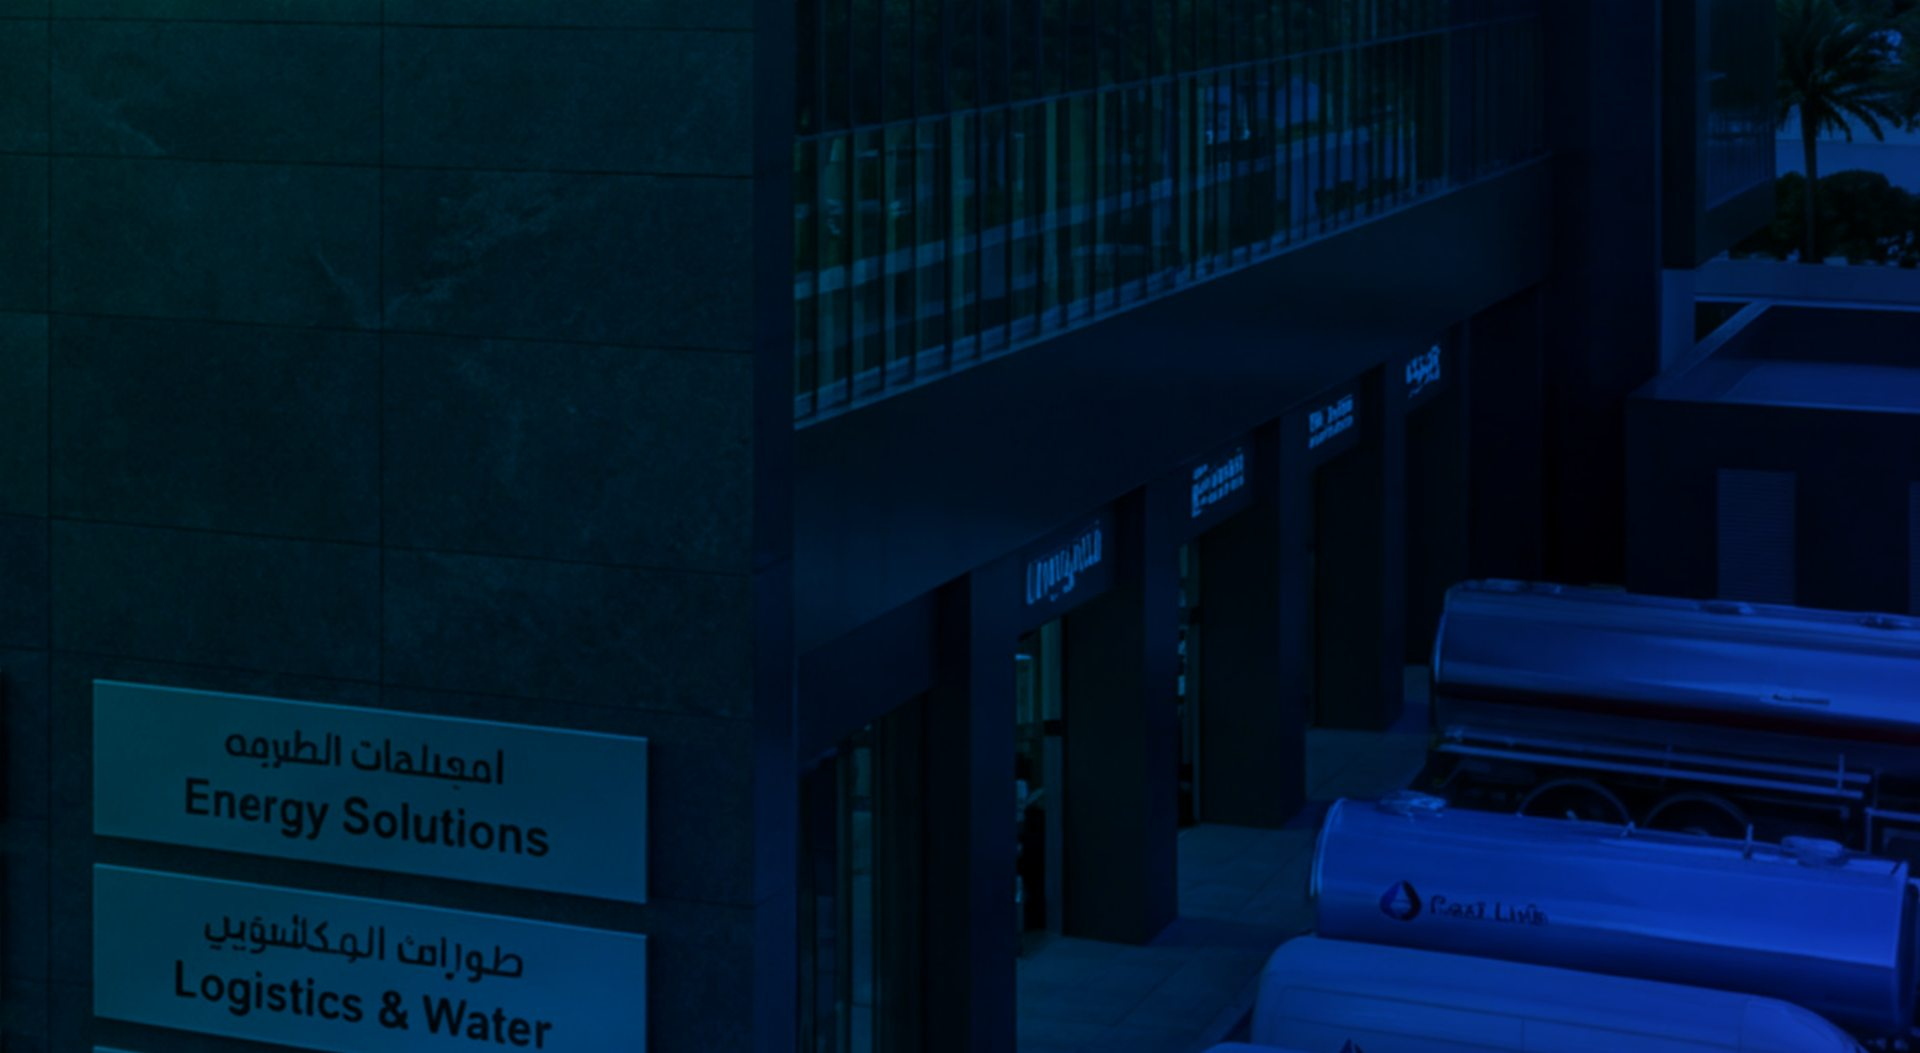
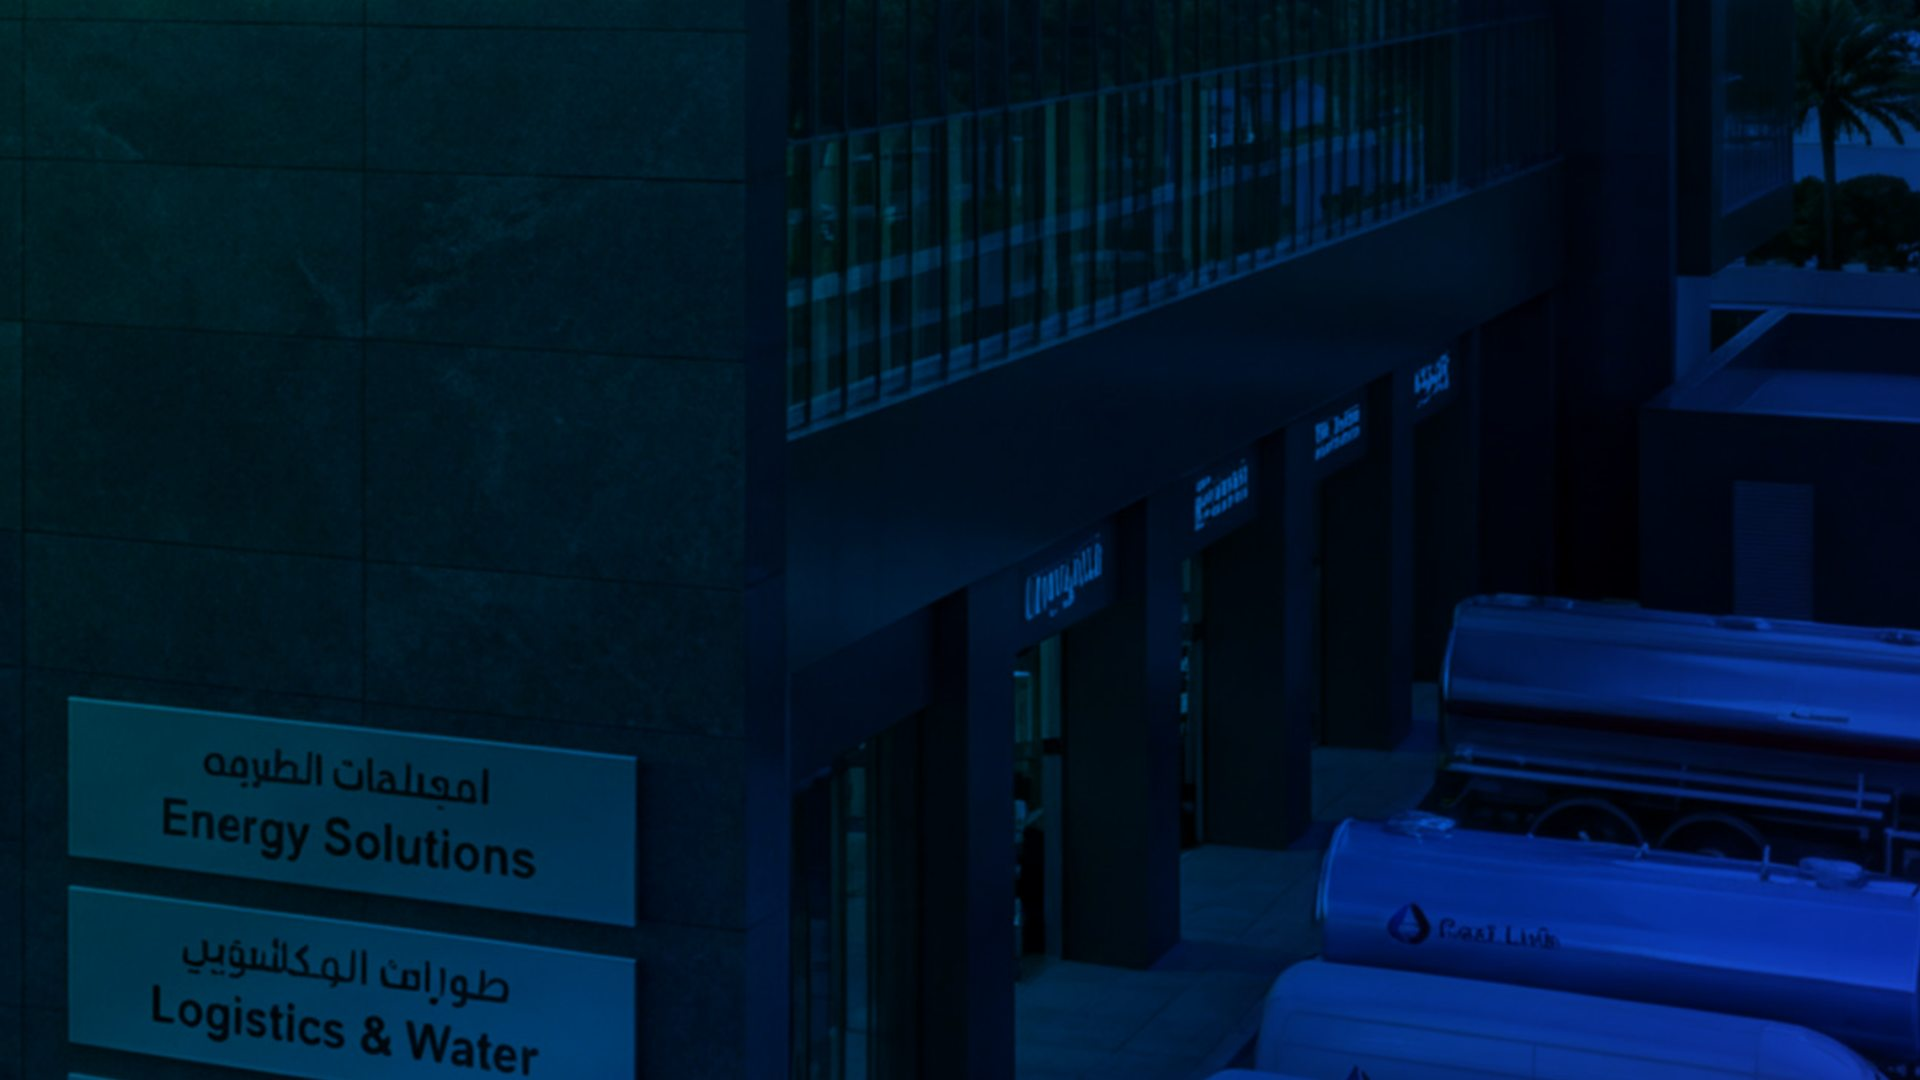
Fix hero slider cropping: match section to image aspect ratio
- Hero section height now follows the 16:9 image ratio (aspect-video,
  capped at 100vh with a 560px minimum) instead of a fixed 100vh that
  cropped slides to their center
- Normalize all slide images to exact 16:9: re-crop facility render to
  1920x1080 and request Unsplash photos at w=1920&h=1080

Claude-Session: https://claude.ai/code/session_01KbkTLxm2hHBMxMBqCRiXgW

diff --git a/components/gasable/GasableHero.tsx b/components/gasable/GasableHero.tsx
@@ -10,12 +10,12 @@ const slides = [
     en: { title: "Petrohub", sub: "Smart solutions… energy delivered with trust." },
   },
   {
-    img: "https://images.unsplash.com/photo-1610465299996-30f240ac2b1c?auto=format&fit=crop&w=1920&q=80",
+    img: "https://images.unsplash.com/photo-1610465299996-30f240ac2b1c?auto=format&fit=crop&w=1920&h=1080&q=80",
     ar: { title: "غاز ومنتجات بترولية", sub: "توريد غاز البترول المسال والمنتجات البترولية بأعلى معايير السلامة." },
     en: { title: "LPG & Petroleum", sub: "LPG and petroleum products supply to the highest safety standards." },
   },
   {
-    img: "https://images.unsplash.com/photo-1581094794329-c8112a89af12?auto=format&fit=crop&w=1920&q=80",
+    img: "https://images.unsplash.com/photo-1581094794329-c8112a89af12?auto=format&fit=crop&w=1920&h=1080&q=80",
     ar: { title: "طاقة وتقنية ذكية", sub: "حلول طاقة مستدامة ومنصة PetroHub IoT لمراقبة الاستهلاك." },
     en: { title: "Smart Energy & Tech", sub: "Sustainable energy solutions and the PetroHub IoT platform." },
   },
@@ -41,7 +41,7 @@ export default function GasableHero() {
   const content = lang === "ar" ? slide.ar : slide.en;
 
   return (
-    <section className="relative w-full h-[100vh] min-h-[560px] overflow-hidden">
+    <section className="relative w-full aspect-video min-h-[560px] max-h-[100vh] overflow-hidden">
       {/* Rotating background images */}
       <AnimatePresence mode="sync">
         <motion.div